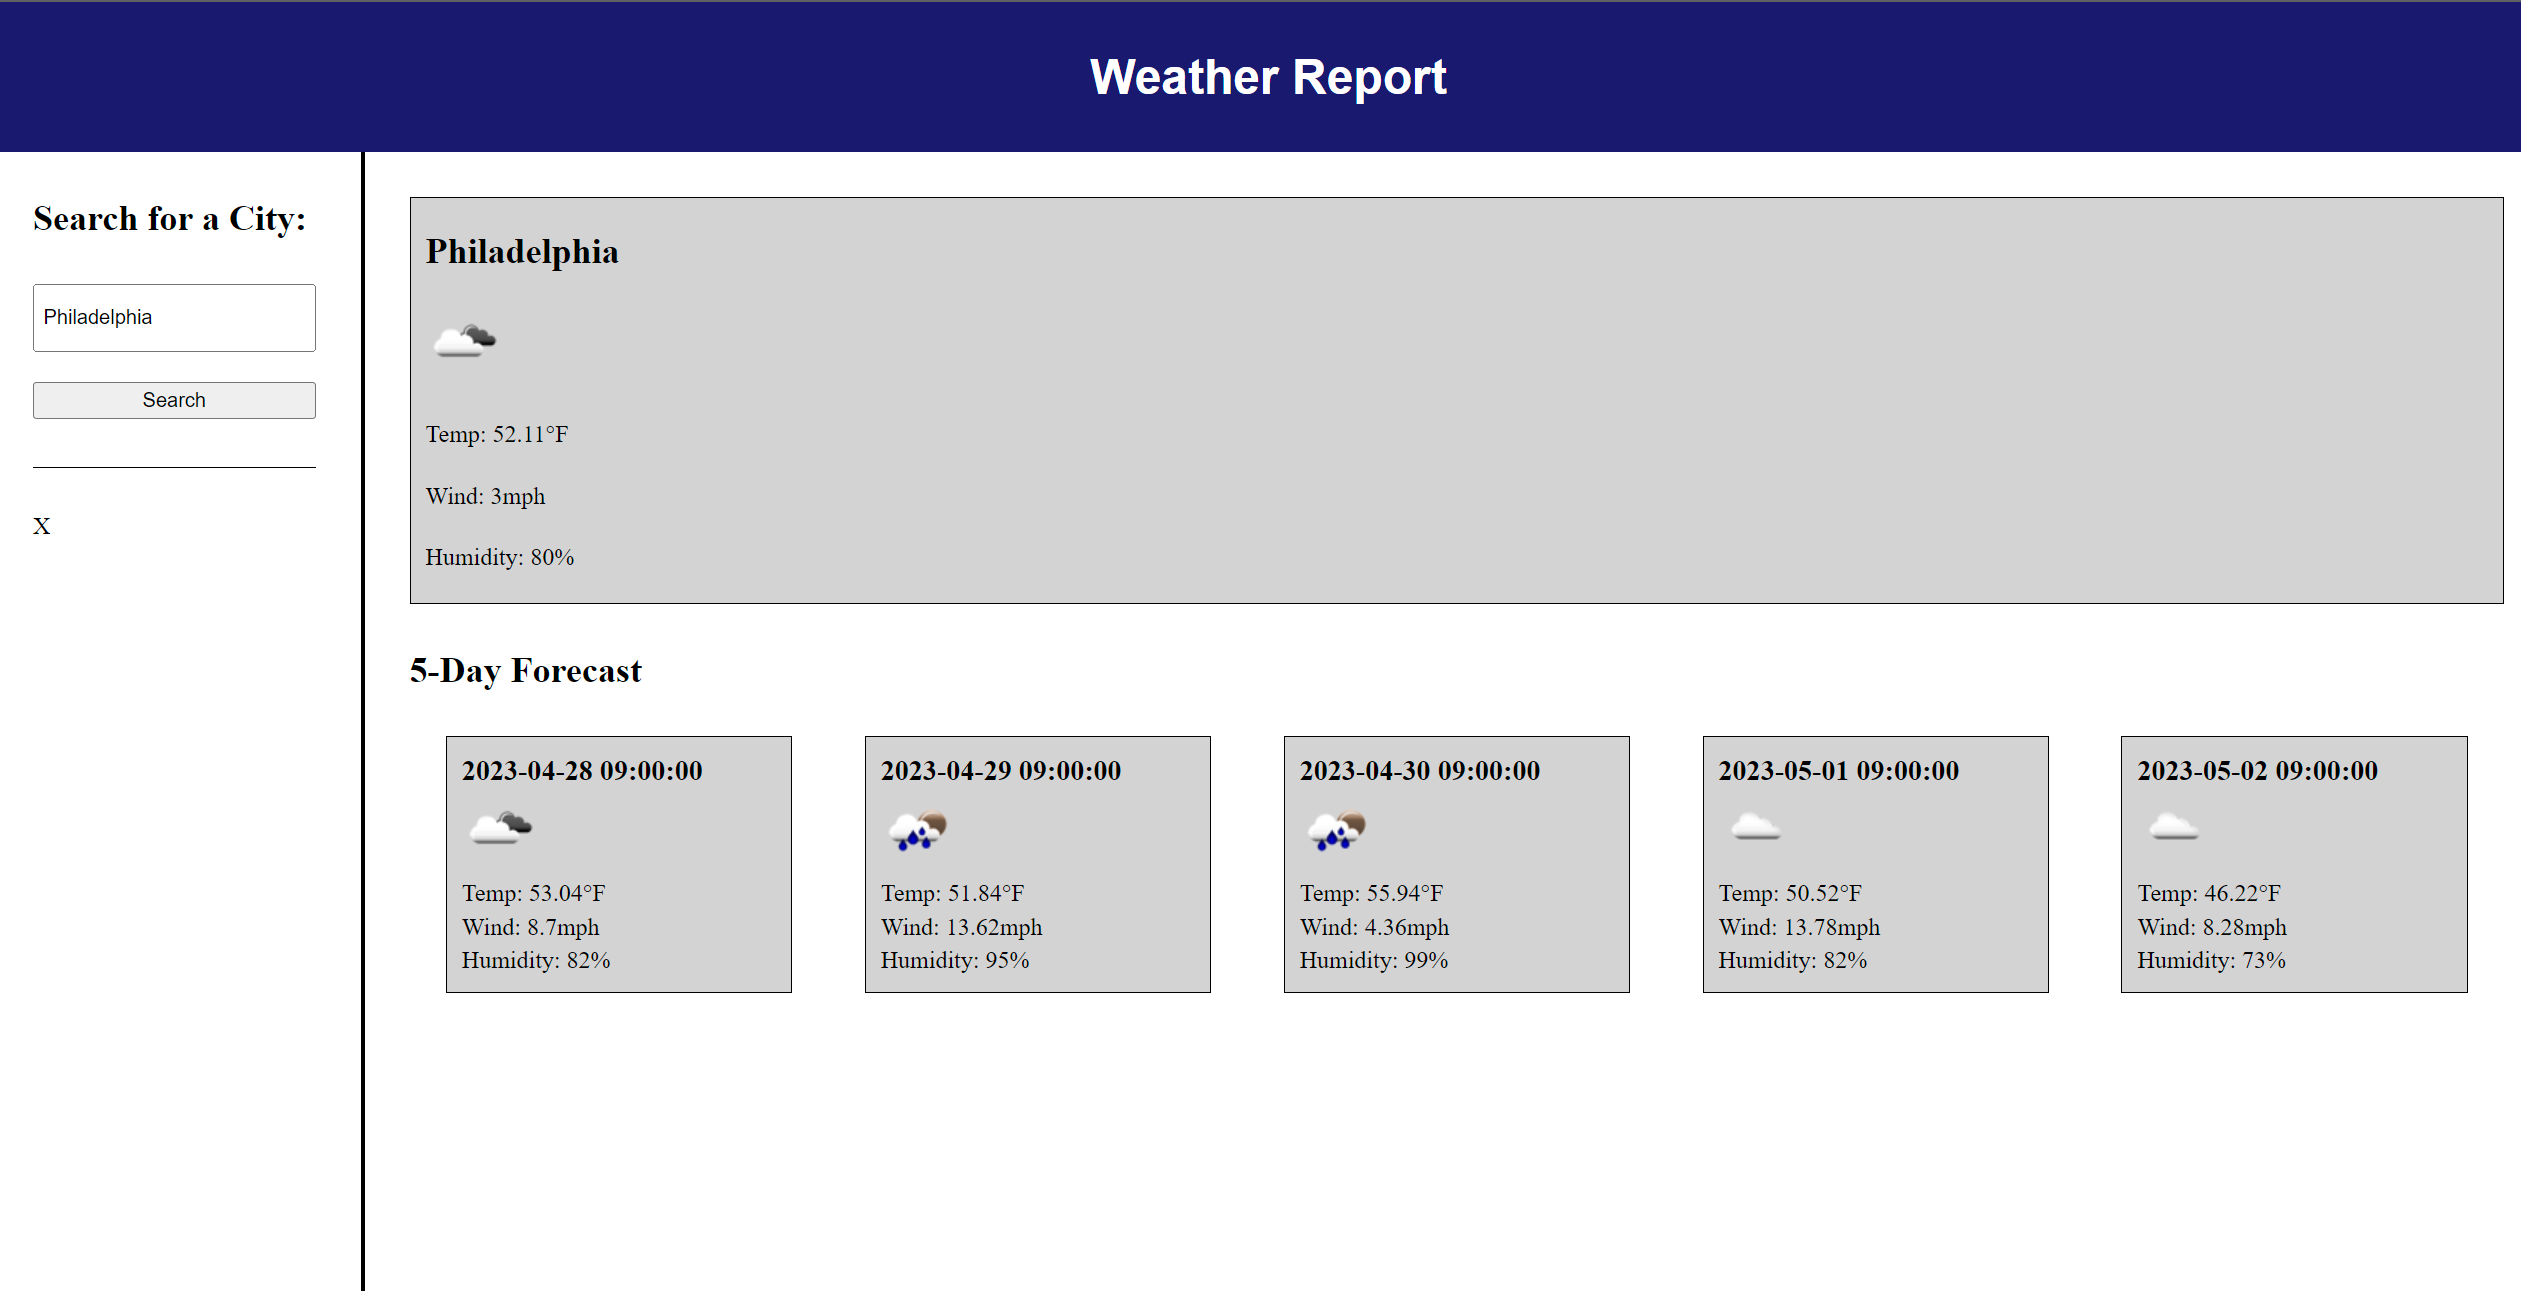
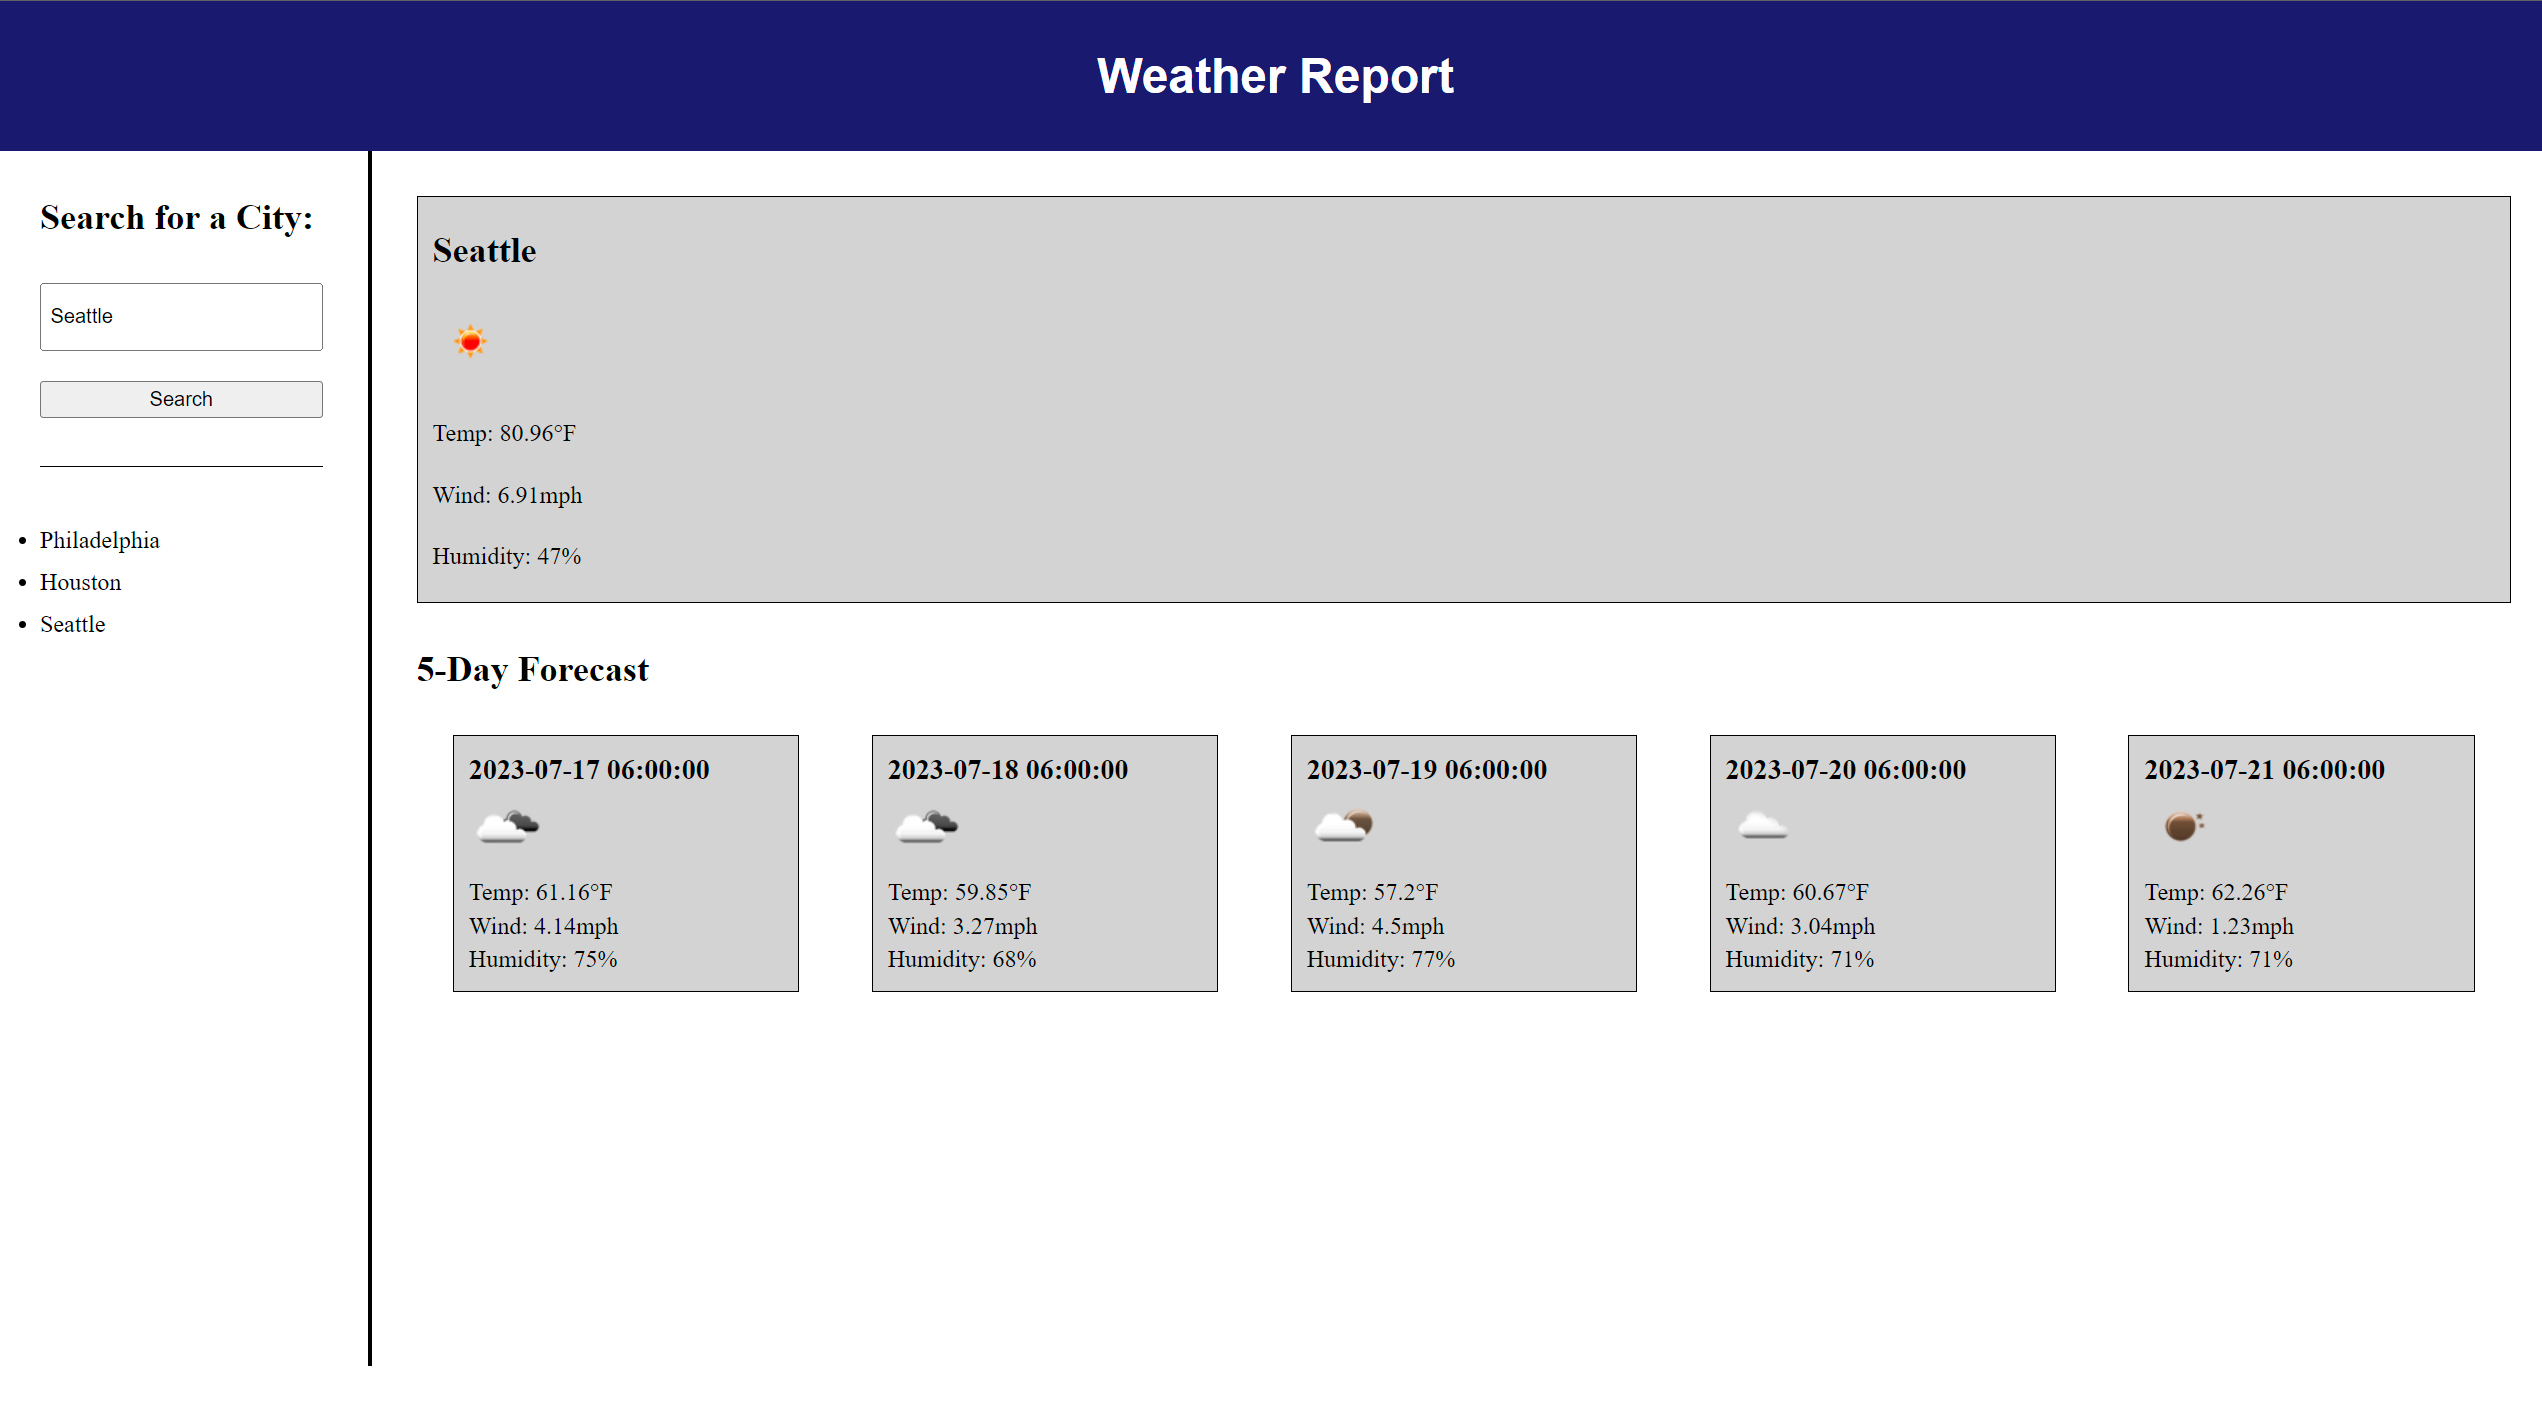
added previous search functionality and made changes to readme

Changed region(s): [[0.0, 0.031, 1.0, 0.9605], [0.0, 0.3718, 0.0619, 0.4648]]

diff --git a/assets/js/script.js b/assets/js/script.js
@@ -1,5 +1,6 @@
 // selector for search button
 var searchBtn = document.querySelector('#sbtn');
+var savedSearches = document.querySelector('#previous');
 // api key
 var apiKey = 'd06c614cd8de208c5d08d01ece9a659b';
 // variables for current weather
@@ -76,6 +77,8 @@ searchBtn.onclick = async function() {
     renderDay3(day3);
     renderDay4(day4);
     renderDay5(day5);
+
+    saveSearch(userInput);
 } 
 // renders current day weather
 function renderCurrent(today) {
@@ -142,6 +145,24 @@ function renderDay1(day1) {
     day5Temp.innerText = "Temp: " + day5.main.temp + "°F";
     day5Wind.innerText = "Wind: " + day5.wind.speed + "mph";
     day5Humidity.innerText = "Humidity: " + day5.main.humidity + "%";
+ }
+
+ function saveSearch(city) {
+
+   var existingSearch = savedSearches.getElementsByTagName('li');
+   for (var i = 0; i < existingSearch.length; i++) {
+      if (existingSearch[i].innerText === city) {
+         return;
+      }
+   }
+
+   var listItem = document.createElement('li');
+   listItem.innerText = city;
+   savedSearches.appendChild(listItem);
+   listItem.addEventListener('click', function () {
+      document.getElementById('search').value = city;
+      searchBtn.click();
+   });
  }
  
 

diff --git a/assets/css/style.css b/assets/css/style.css
@@ -51,6 +51,16 @@ nav {
     border-top: 1px solid black;
 }
 
+#previous li {
+    margin-top: 10px;
+    margin-bottom: 10px;
+}
+
+#previous li:hover {
+    color: blue ;
+    cursor: pointer;
+}
+
 section {
     display: flex;
     flex-direction: column;

diff --git a/index.html b/index.html
@@ -21,7 +21,6 @@
                 <button id="sbtn">Search</button>
             </nav>
             <ul id="previous">
-                X
             </ul>
         </aside>
         <section>

diff --git a/README.md b/README.md
@@ -3,27 +3,33 @@
 ## Description
 With this challenge the goal was to create a weather app that uses a 3rd party API to gather data. When the user interacts with the website they must first input a city. When entered, the site populates with data based on that location. A current weather report in addition to a 5 day forecast is presented along with the following criteria for each: Current temperature, wind speed, humidity, and an icon that represents the current conditions.
 
-### Screenshots
-HTML:
+## Screenshots
+
+### Application
+
+![Live Deployment](/assets/images/publish1.png)
+
+### HTML:
 https://github.com/rstreep/weather-forecast/blob/main/assets/images/html1.png?raw=true
 https://github.com/rstreep/weather-forecast/blob/main/assets/images/html2.png?raw=true
 
-CSS:
+### CSS:
 https://github.com/rstreep/weather-forecast/blob/main/assets/images/css1.png?raw=true
 https://github.com/rstreep/weather-forecast/blob/main/assets/images/css2.png?raw=true
 https://github.com/rstreep/weather-forecast/blob/main/assets/images/css3.png?raw=true
 
-JS:
+### JS:
 https://github.com/rstreep/weather-forecast/blob/main/assets/images/js1.png?raw=true
 https://github.com/rstreep/weather-forecast/blob/main/assets/images/js2.png?raw=true
 https://github.com/rstreep/weather-forecast/blob/main/assets/images/js3.png?raw=true
 https://github.com/rstreep/weather-forecast/blob/main/assets/images/js4.png?raw=true
 
-Deployed Site:
-https://github.com/rstreep/weather-forecast/blob/main/assets/images/publish1.png?raw=true
-
-#### Published Site
+## Published Site
 https://rstreep.github.io/weather-forecast/
 
-#### Github
+## Github
 https://github.com/rstreep/weather-forecast
+
+## License
+
+[![License: MIT](https://img.shields.io/badge/License-MIT-yellow.svg)](https://opensource.org/licenses/MIT)
